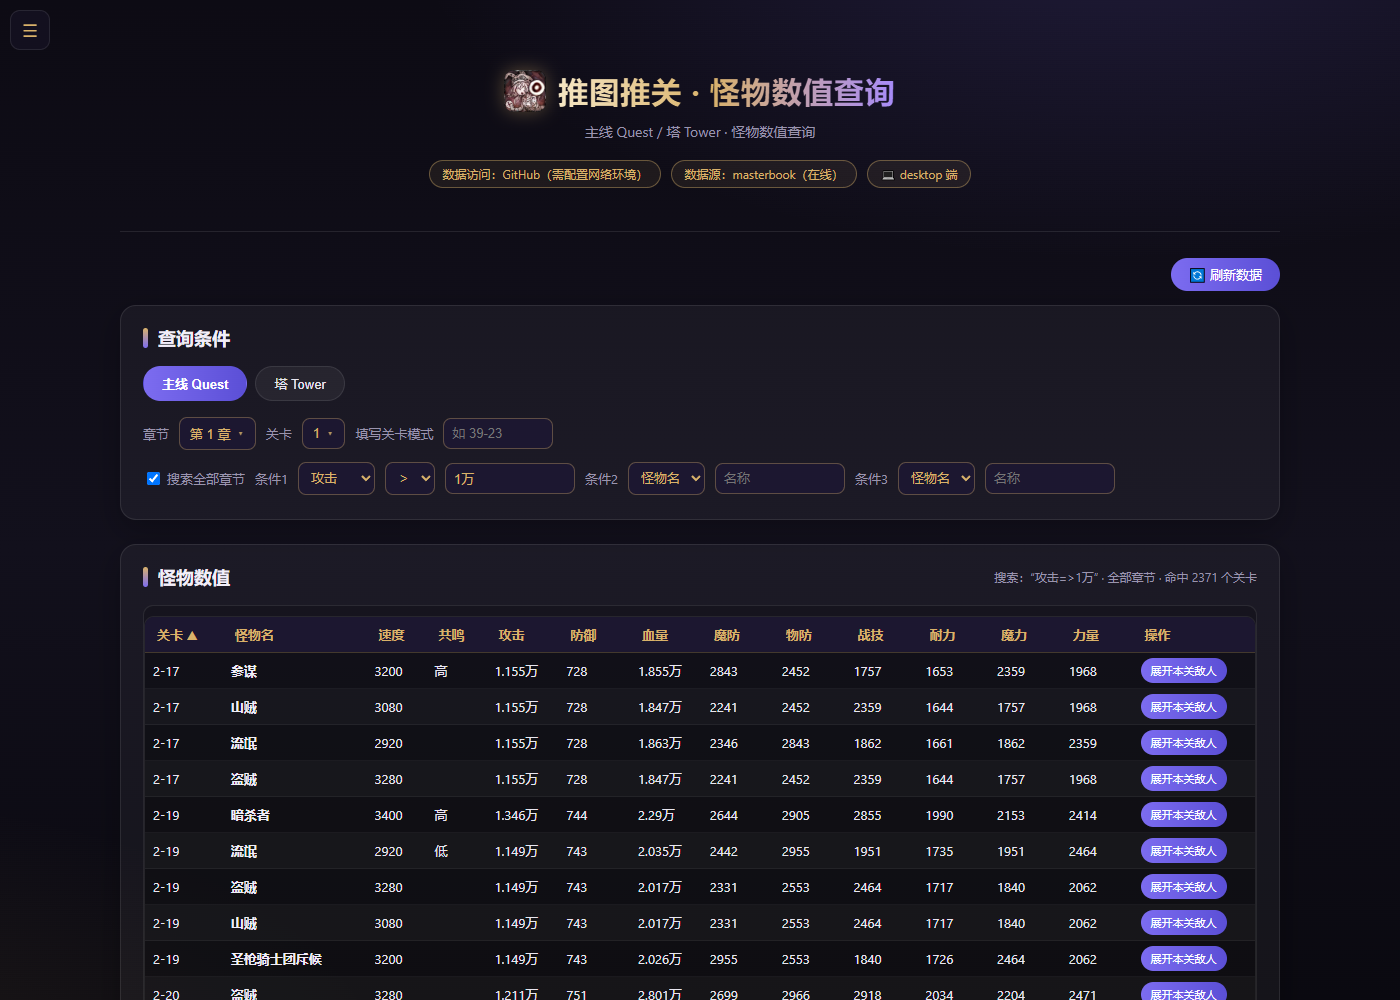
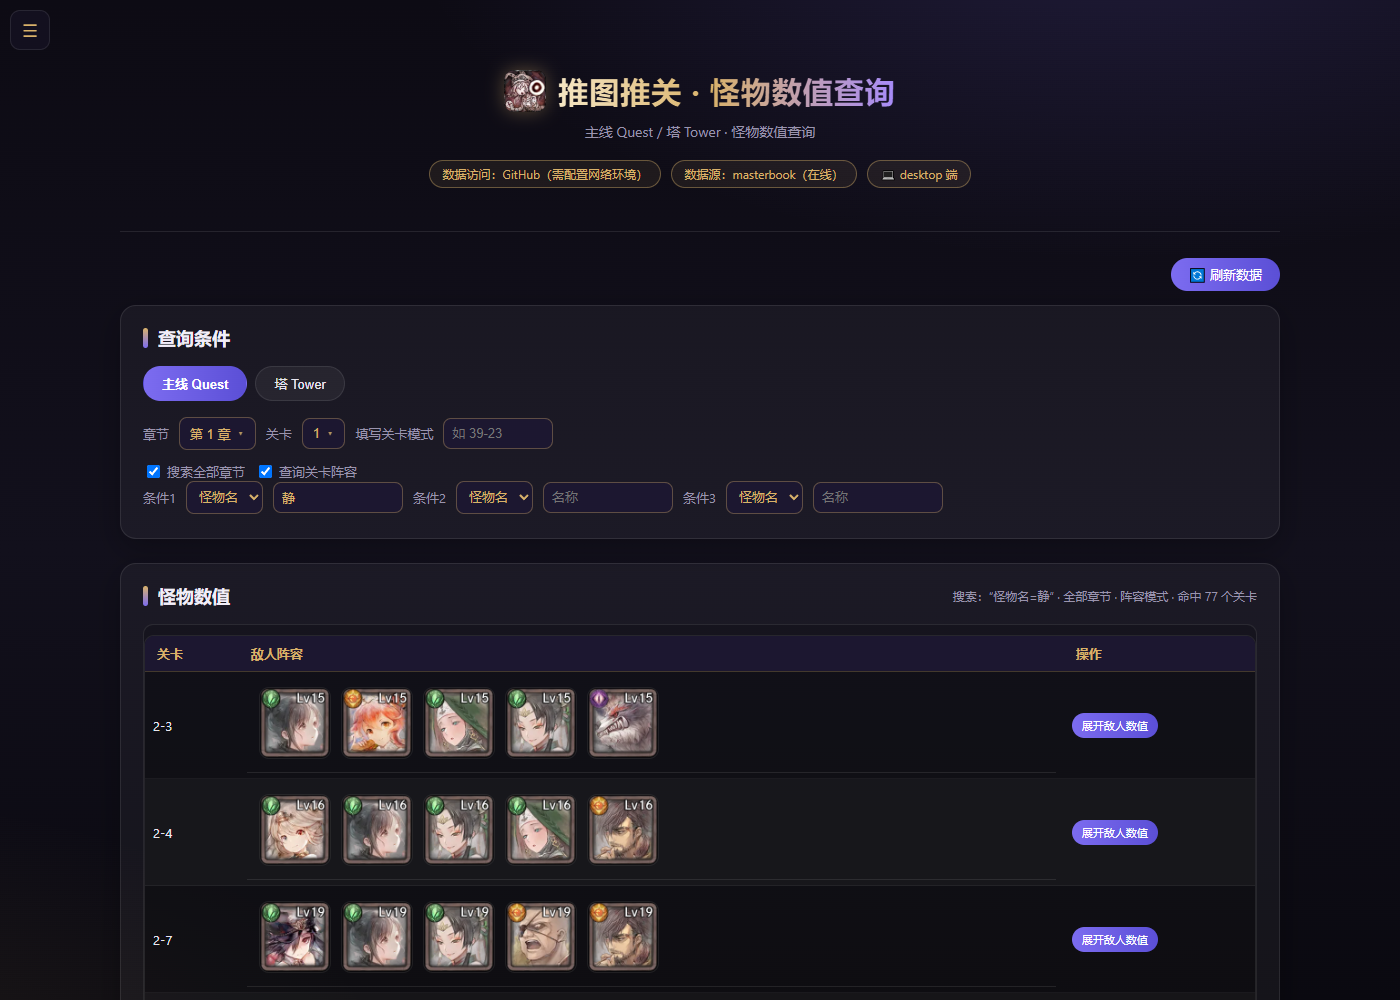
怪物页：搜索区拆两行(第一行 搜索全部章节/查询关卡阵容/塔类型，第二行三个条件)；勾选阵容后按关卡显示敌人图标+展开数值按钮(主线/塔都生效)

diff --git a/monsters.html b/monsters.html
@@ -209,8 +209,10 @@ section[id]{scroll-margin-top:16px}
       <input id="inp-level-manual" class="num-inp" style="width:90px" placeholder="如 500" onchange="onQueryChange()">
     </div>
     <div class="qrow" style="margin-top:12px;flex-wrap:wrap">
-      <label class="chk"><input type="checkbox" id="chk-all" onchange="doSearch()"> 搜索全部章节</label>
+      <label class="chk"><input type="checkbox" id="chk-all" onchange="doSearch()"> 搜索全部章节</label><label class="chk"><input type="checkbox" id="chk-lineup" onchange="doSearch()"> 查询关卡阵容</label>
       <label id="lbl-tower-filter" style="display:none">塔类型</label><select id="sel-tower-filter" style="display:none" onchange="doSearch()"></select>
+    </div>
+    <div class="qrow" style="flex-wrap:wrap">
       <label>条件1</label><select id="sel-c1" class="cond-sel" onchange="onCondColChange(1);doSearch()"></select><select id="op-sel-1" class="cond-op" style="display:none" onchange="doSearch()"></select><input type="text" id="inp-m1" class="num-inp" style="width:130px" placeholder="值" onchange="doSearch()">
       <label>条件2</label><select id="sel-c2" class="cond-sel" onchange="onCondColChange(2);doSearch()"></select><select id="op-sel-2" class="cond-op" style="display:none" onchange="doSearch()"></select><input type="text" id="inp-m2" class="num-inp" style="width:130px" placeholder="值" onchange="doSearch()">
       <label>条件3</label><select id="sel-c3" class="cond-sel" onchange="onCondColChange(3);doSearch()"></select><select id="op-sel-3" class="cond-op" style="display:none" onchange="doSearch()"></select><input type="text" id="inp-m3" class="num-inp" style="width:130px" placeholder="值" onchange="doSearch()">
@@ -660,7 +662,7 @@ function towerStageHtml(stageStr){
 function sortResult(col){
   if (sortCol === col) sortDir = -sortDir;
   else { sortCol = col; sortDir = 1; }
-  if (lastSearch) renderSearch(lastSearch.results, lastSearch.conds, lastSearch.all);
+  if (lastSearch) renderSearch(lastSearch.results, lastSearch.conds, lastSearch.all, lastSearch.lineup);
 }
 function condLabel(cds){
   return cds.map(cd => (SEARCH_COLS.find(x => x[0] === cd.col) || [cd.col, "列" + cd.col])[1] + "=" + cd.val).join("、");
@@ -671,6 +673,7 @@ function doSearch(){
   const data = mode === "quest" ? questData : towerData;
   if (!data) return;
   const all = document.getElementById("chk-all").checked;
+  const lineup = document.getElementById("chk-lineup").checked;
   const tf = mode === "tower" ? towerFilter() : null;
   const pool = (all ? data.rows : data.rows.filter(r => String(r[0]) === currentStageStr())).filter(r => !tf || String(r[0]).startsWith(tf.prefix));
   const map = {};
@@ -680,17 +683,27 @@ function doSearch(){
     .filter(x => x.hit.length === conds.length)
     .sort((a, b) => stageNum(a.stage) - stageNum(b.stage));
   sortCol = 0; sortDir = 1; // 默认关卡升序
-  lastSearch = { results: results, conds: conds, all: all };
-  renderSearch(results, conds, all);
+  lastSearch = { results: results, conds: conds, all: all, lineup: lineup };
+  renderSearch(results, conds, all, lineup);
 }
-function renderSearch(results, conds, all){
+function renderSearch(results, conds, all, lineup){
   const el = document.getElementById("tbl-res");
-  document.getElementById("res-note").textContent = "搜索：“" + condLabel(conds) + "” · " + (all ? "全部章节" : "当前关卡") + " · 命中 " + results.length + " 个关卡";
+  document.getElementById("res-note").textContent = "搜索：“" + condLabel(conds) + "” · " + (all ? "全部章节" : "当前关卡") + (lineup ? " · 阵容模式" : "") + " · 命中 " + results.length + " 个关卡";
   if (!results.length){ el.innerHTML = '<div class="error">未找到满足条件的关卡</div>'; return; }
   const one = conds.length === 1;
+  const groupMode = !!lineup || conds.length > 1;
   let rowsHtml = "";
   let matchedAll = [];
-  if (one){
+  if (groupMode){
+    for (const rs of results){
+      const st = mode === "tower" ? towerStageHtml(rs.stage) : esc(String(rs.stage));
+      rowsHtml += "<tr>"
+        + "<td>" + st + "</td>"
+        + "<td>" + stageIconsHtml(rs.rows) + "</td>"
+        + "<td><button class=\"mini\" onclick=\"expandStage(this, '" + esc(rs.stage) + "')\">展开敌人数值</button></td>"
+        + "</tr>";
+    }
+  } else if (one){
     for (const rs of results){
       for (const r of rs.rows){ if (matchCond(r, conds[0])) matchedAll.push(r); }
     }
@@ -711,7 +724,7 @@ function renderSearch(results, conds, all){
         + "<td>" + fmtCell(13, r[13]) + "</td>"
         + "<td>" + fmtCell(14, r[14]) + "</td>"
         + "<td>" + fmtCell(15, r[15]) + "</td>"
-        + '<td><button class="mini" onclick="expandStage(this, \'' + esc(r[0]) + '\')">展开本关敌人</button></td>'
+        + "<td><button class=\"mini\" onclick=\"expandStage(this, '" + esc(r[0]) + "')\">展开本关敌人</button></td>"
         + "</tr>";
     }
   } else {
@@ -720,12 +733,14 @@ function renderSearch(results, conds, all){
       rowsHtml += "<tr>"
         + "<td>" + st + "</td>"
         + "<td>" + esc(rs.stage) + " · 含 " + conds.length + " 个条件</td>"
-        + '<td><button class="mini" onclick="expandStage(this, \'' + esc(rs.stage) + '\')">展开本关敌人</button></td>'
+        + "<td><button class=\"mini\" onclick=\"expandStage(this, '" + esc(rs.stage) + "')\">展开本关敌人</button></td>"
         + "</tr>";
     }
   }
   let headers;
-  if (one){
+  if (groupMode){
+    headers = "<th>关卡</th><th>敌人阵容</th><th>操作</th>";
+  } else if (one){
     headers = DISP_COLS.map(([ci, lab]) => {
       const arrow = sortCol === ci ? (sortDir === 1 ? " ▲" : " ▼") : "";
       return '<th class="sortable" onclick="sortResult(' + ci + ')">' + lab + arrow + "</th>";
@@ -737,7 +752,7 @@ function renderSearch(results, conds, all){
   for (const rs of results){
     fulls += '<div class="sres-full" data-stage="' + esc(rs.stage) + '" style="display:none">'
       + '<div class="sres-full-head"><span class="sres-stage">' + (mode === "tower" ? towerStageHtml(rs.stage) : esc(rs.stage)) + " · 全部敌人</span><button class=\"mini\" onclick=\"backToList(this)\">收起</button></div>"
-      + stageContentHtml(rs.rows)
+      + (lineup ? rowTableHtml(rs.rows) : stageContentHtml(rs.rows))
       + "</div>";
   }
   el.innerHTML = '<div class="sres">'
